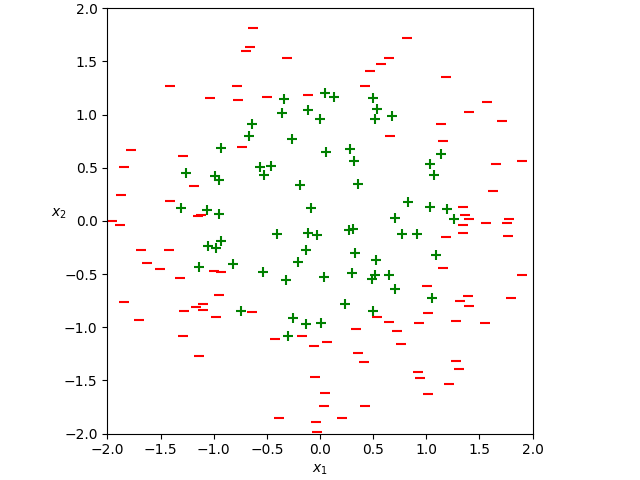
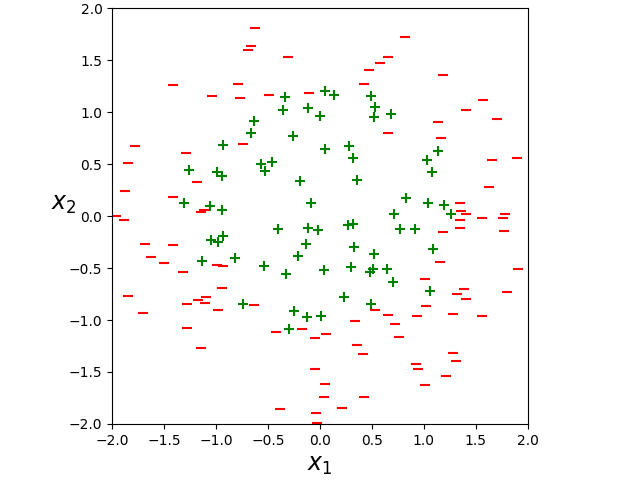
margin irudi berria sortu eta besteak aktualizatu

diff --git a/Grafikoak/2_margina_adibidea.py b/Grafikoak/2_margina_adibidea.py
@@ -1,37 +1,72 @@
 import matplotlib.pyplot as plt
 import numpy as np
+import random
 
-
+def sortu_puntuak (n_puntu , x_min, x_max, y_min, y_max):
+    kx = []
+    ky = []
+    while len(kx) != n_puntu:
+        x = random.uniform(x_min, x_max)
+        y = random.uniform(y_min, y_max)
+        kx.append(x)
+        ky.append(y)
+    return kx, ky
 
 # Lerroa marrazteko puntuak:
 x = np.linspace(-10, 10, 100)
-y1 = 0.85*x + 0.9
-y2 = 0.6 *x + 0.65
+y1 = x - 0.7
+y2 = x/3 + 0.5
 
+y3 = -0.4 + x - 1
+y4 = x
+
+y5 = -0.4 + 1/3*(x-1)
+y6 = 1.81999 + 1/3*(x-0.26)
 # Grafikoa sortu: 
-plt.plot(x, y1, label='Margin handia')
-plt.plot(x, y2, label = 'Margin txikia')
-plt.xlabel(r'$x_1$')
-plt.ylabel(r'$x_2$',rotation = 0)
+
+
+plt.plot(x, y3, label = 'Margin txikia', linestyle = "dotted", alpha = 1, c = "tab:blue")
+plt.plot(x, y4, label = 'Margin txikia', linestyle = "dotted", alpha = 1, c = "tab:blue")
+plt.plot(x, y5, label = 'Margin txikia', linestyle = "dotted", alpha = 1, c = "tab:orange")
+plt.plot(x, y6, label = 'Margin txikia', linestyle = "dotted", alpha = 1, c = "tab:orange")
+
+
+
+hiper_1, = plt.plot(x, y1, label='Margin txikia', linewidth = 2.2, linestyle = "--")
+hiper_2, = plt.plot(x, y2, label = 'Margin handia', linewidth = 2.2)
+plt.xlabel(r'$x_1$', fontsize = 17)
+plt.ylabel(r'$x_2$',rotation = 0, fontsize = 17)
 plt.tight_layout(pad = 0.2)
 
-plt.grid(True)
-plt.xlim([-3,3])
-plt.ylim([-3,3])
-plt.axhline(0, color='black',linewidth=0.5)
-plt.axvline(0, color='black',linewidth=0.5)
+# plt.grid(True)
+plt.xlim([-3.2,3.2])
+plt.ylim([-3.2,3.2])
+# plt.axhline(0, color='black',linewidth=0.5)
+# plt.axvline(0, color='black',linewidth=0.5)
 plt.gca().set_aspect('equal', adjustable='box')
 
 # Puntuak gehitu
-plt.scatter([2.3, -0.4, -1.4,0.6,1.5], [1.2, -2.3,-1.2,-0.4,-1.5], color='red', marker='_', s = 300)
-plt.scatter([-1.7, -0.4, 0.5,-2.5,-2.6], [0.7, 1.4, 2.6,1.4,-0.3], color='green', marker='+', s = 300)
-plt.scatter([1],[1], color='red', marker='.', s = 300)
+random.seed(124)
+
+n = 15
+# Negatiboak
+kx_minus, ky_minus = sortu_puntuak(n, 1, 3.5, -1, -3.5) 
+plt.scatter(kx_minus, ky_minus, color='red', marker='_', s = 300)
+kx_minus, ky_minus = sortu_puntuak(n-n//3 * 2, 2.2, 3.5, -0.3, -1) 
+plt.scatter(kx_minus, ky_minus, color='red', marker='_', s = 300)
+
+kx_plus, ky_plus = sortu_puntuak(n, -1.4, -3.5, 1.4, 3.5) 
+plt.scatter(kx_plus, ky_plus, color='green', marker='+', s = 300)
+kx_minus, ky_minus = sortu_puntuak(n-n//3 * 2, -0.3, -1,2.2, 3.5) 
+plt.scatter(kx_minus, ky_minus, color='green', marker='+', s = 300)
+
 
 # Distantzien adierazpenak:
-plt.plot([1, 0.6298], [1, 1.43541],linestyle = "--", color='black',linewidth = 2)
-plt.plot([1, 0.8897], [1, 1.1838],linestyle = "--", color='blue',linewidth = 2)
+plt.plot([1, 13/20], [-0.4, -0.05], color='black',linewidth = 2)
+plt.plot([1, 63/100], [-0.4, 71/100], color='black',linewidth = 2)
+plt.scatter([1],[-0.4], color='red', marker='_', s = 500, linewidth = 4)
 
-l =plt.legend(fontsize = 12, loc = 'upper left')
+l =plt.legend(handles = [hiper_1, hiper_2] ,fontsize = 10, loc = 'lower left')
 l.get_frame().set_alpha(1) 
 
 plt.show()
